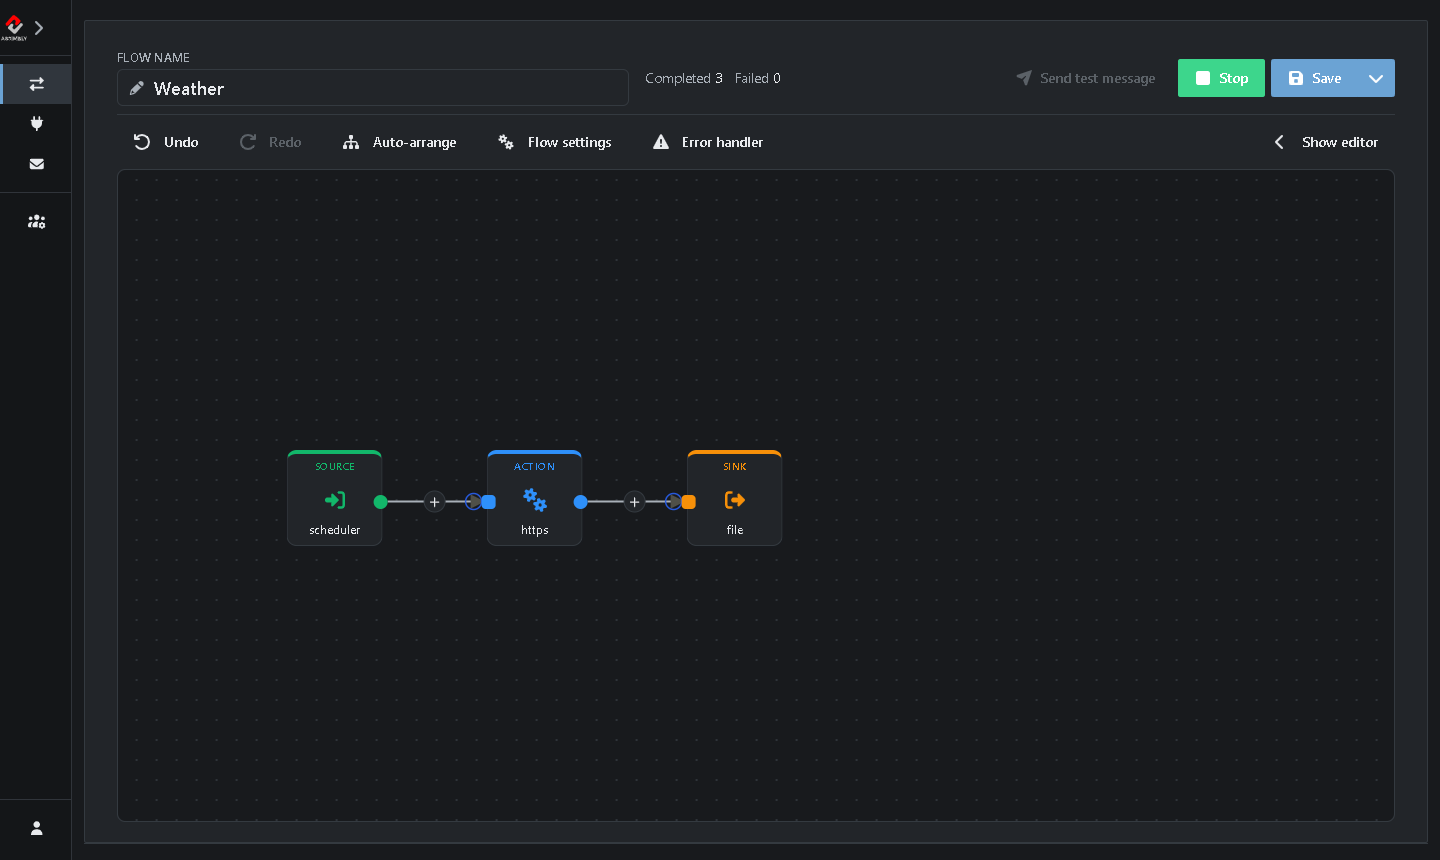
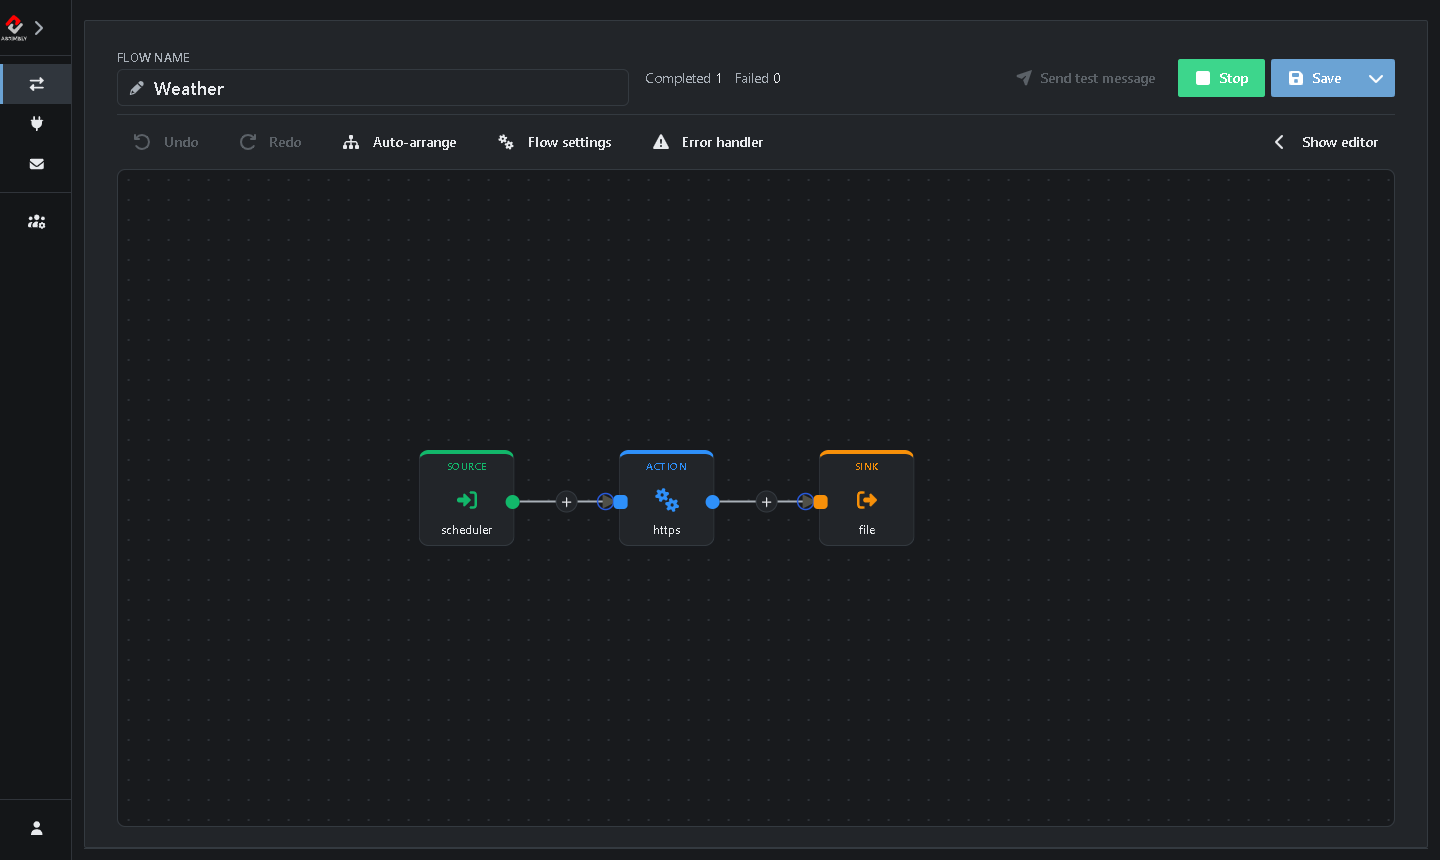
Update v6 Tutorials 1-4 after re-running them
- Tutorial 1: raise the log viewer's Lines before searching, as the
  default 250 lines no longer reach back to the error
- Tutorial 4: Base path and Operation path already start with /, and
  Version is already 1.0; SETBODY evaluates Simple by default, so the
  Language option step is gone
- New screenshots for the counters, which now count messages instead
  of steps, and for the SETBODY step without the Language option

diff --git a/tutorials/v6/tutorial4/README.md b/tutorials/v6/tutorial4/README.md
@@ -32,8 +32,8 @@ The **APIs** page lets you design a REST API the same way you would write an [Op
 2. Click **Add**.
 3. Fill in the form:
    * **Name:** `Greetings`
-   * **Base path:** `/greetings`
-   * **Version:** `1.0`
+   * **Base path:** `/greetings` (the field already starts with `/`, so type `greetings` after it)
+   * **Version:** keep `1.0`
    * **Description:** `Says hello to whoever asks.`
 
 ![Create the API](01-new-api.png)
@@ -44,7 +44,7 @@ The **APIs** page lets you design a REST API the same way you would write an [Op
 
 1. Click **New Operation**. A panel opens on the right.
 2. Keep **Method** on `GET`.
-3. In **Path**, type `/{name}` after `/greetings`. The part between curly braces is a *path parameter*. It appears under **Parameters** by itself.
+3. **Path** already shows `/greetings` and `/`. Type `{name}` after the `/`, so it reads `/{name}`. The part between curly braces is a *path parameter*. It appears under **Parameters** by itself.
 4. Set **operationId** to `sayHello` and **Summary** to `Say hello`.
 
 ![Add the Operation](02-new-operation.png)
@@ -73,13 +73,11 @@ Right now the Flow would answer with an empty message. Add an Action that writes
    {"message": "Hello ${header.name}!"}
    ```
 
-5. Click **+** next to the option to add a second one. Choose **Language** and type `simple`.
-
 ![Configure the Set body Action](05-set-body.png)
 
-6. Click **Save**, then **Start**.
+5. Click **Save**, then **Start**.
 
-> **What does `${header.name}` do?** The Gateway puts every path parameter in a header with the same name. `${header.name}` is an expression in Camel's [Simple language](https://camel.apache.org/components/latest/languages/simple-language.html) that reads that header. The **Language** option `simple` tells the Action to evaluate the expression, instead of sending it as plain text.
+> **What does `${header.name}` do?** The Gateway puts every path parameter in a header with the same name. `${header.name}` is an expression in Camel's [Simple language](https://camel.apache.org/components/latest/languages/simple-language.html) that reads that header. SETBODY evaluates its expression with Simple by default. To send the text exactly as typed, add the option **Language** with the value `constant`.
 
 ## Step 4: Call your API
 

diff --git a/tutorials/v6/tutorial1/README.md b/tutorials/v6/tutorial1/README.md
@@ -78,7 +78,8 @@ The Source picks up the file, but the Sink can't store it. In the editor header 
 An alert is a one-line summary. The full details, such as the headers of the message and the stack trace, are in the Gateway log. You see the log in the terminal where you started the Gateway, or in your browser:
 
 1. Go to **Administration → Log viewer**.
-2. Type `Cannot store file` in the search box.
+2. Set **Lines** to `3000` and click **Refresh**. The Gateway logs a lot, so the default 250 lines often no longer reach back to the error.
+3. Type `Cannot store file` in the filter box.
 
 ![The error in the log viewer](05-log-viewer.png)
 
